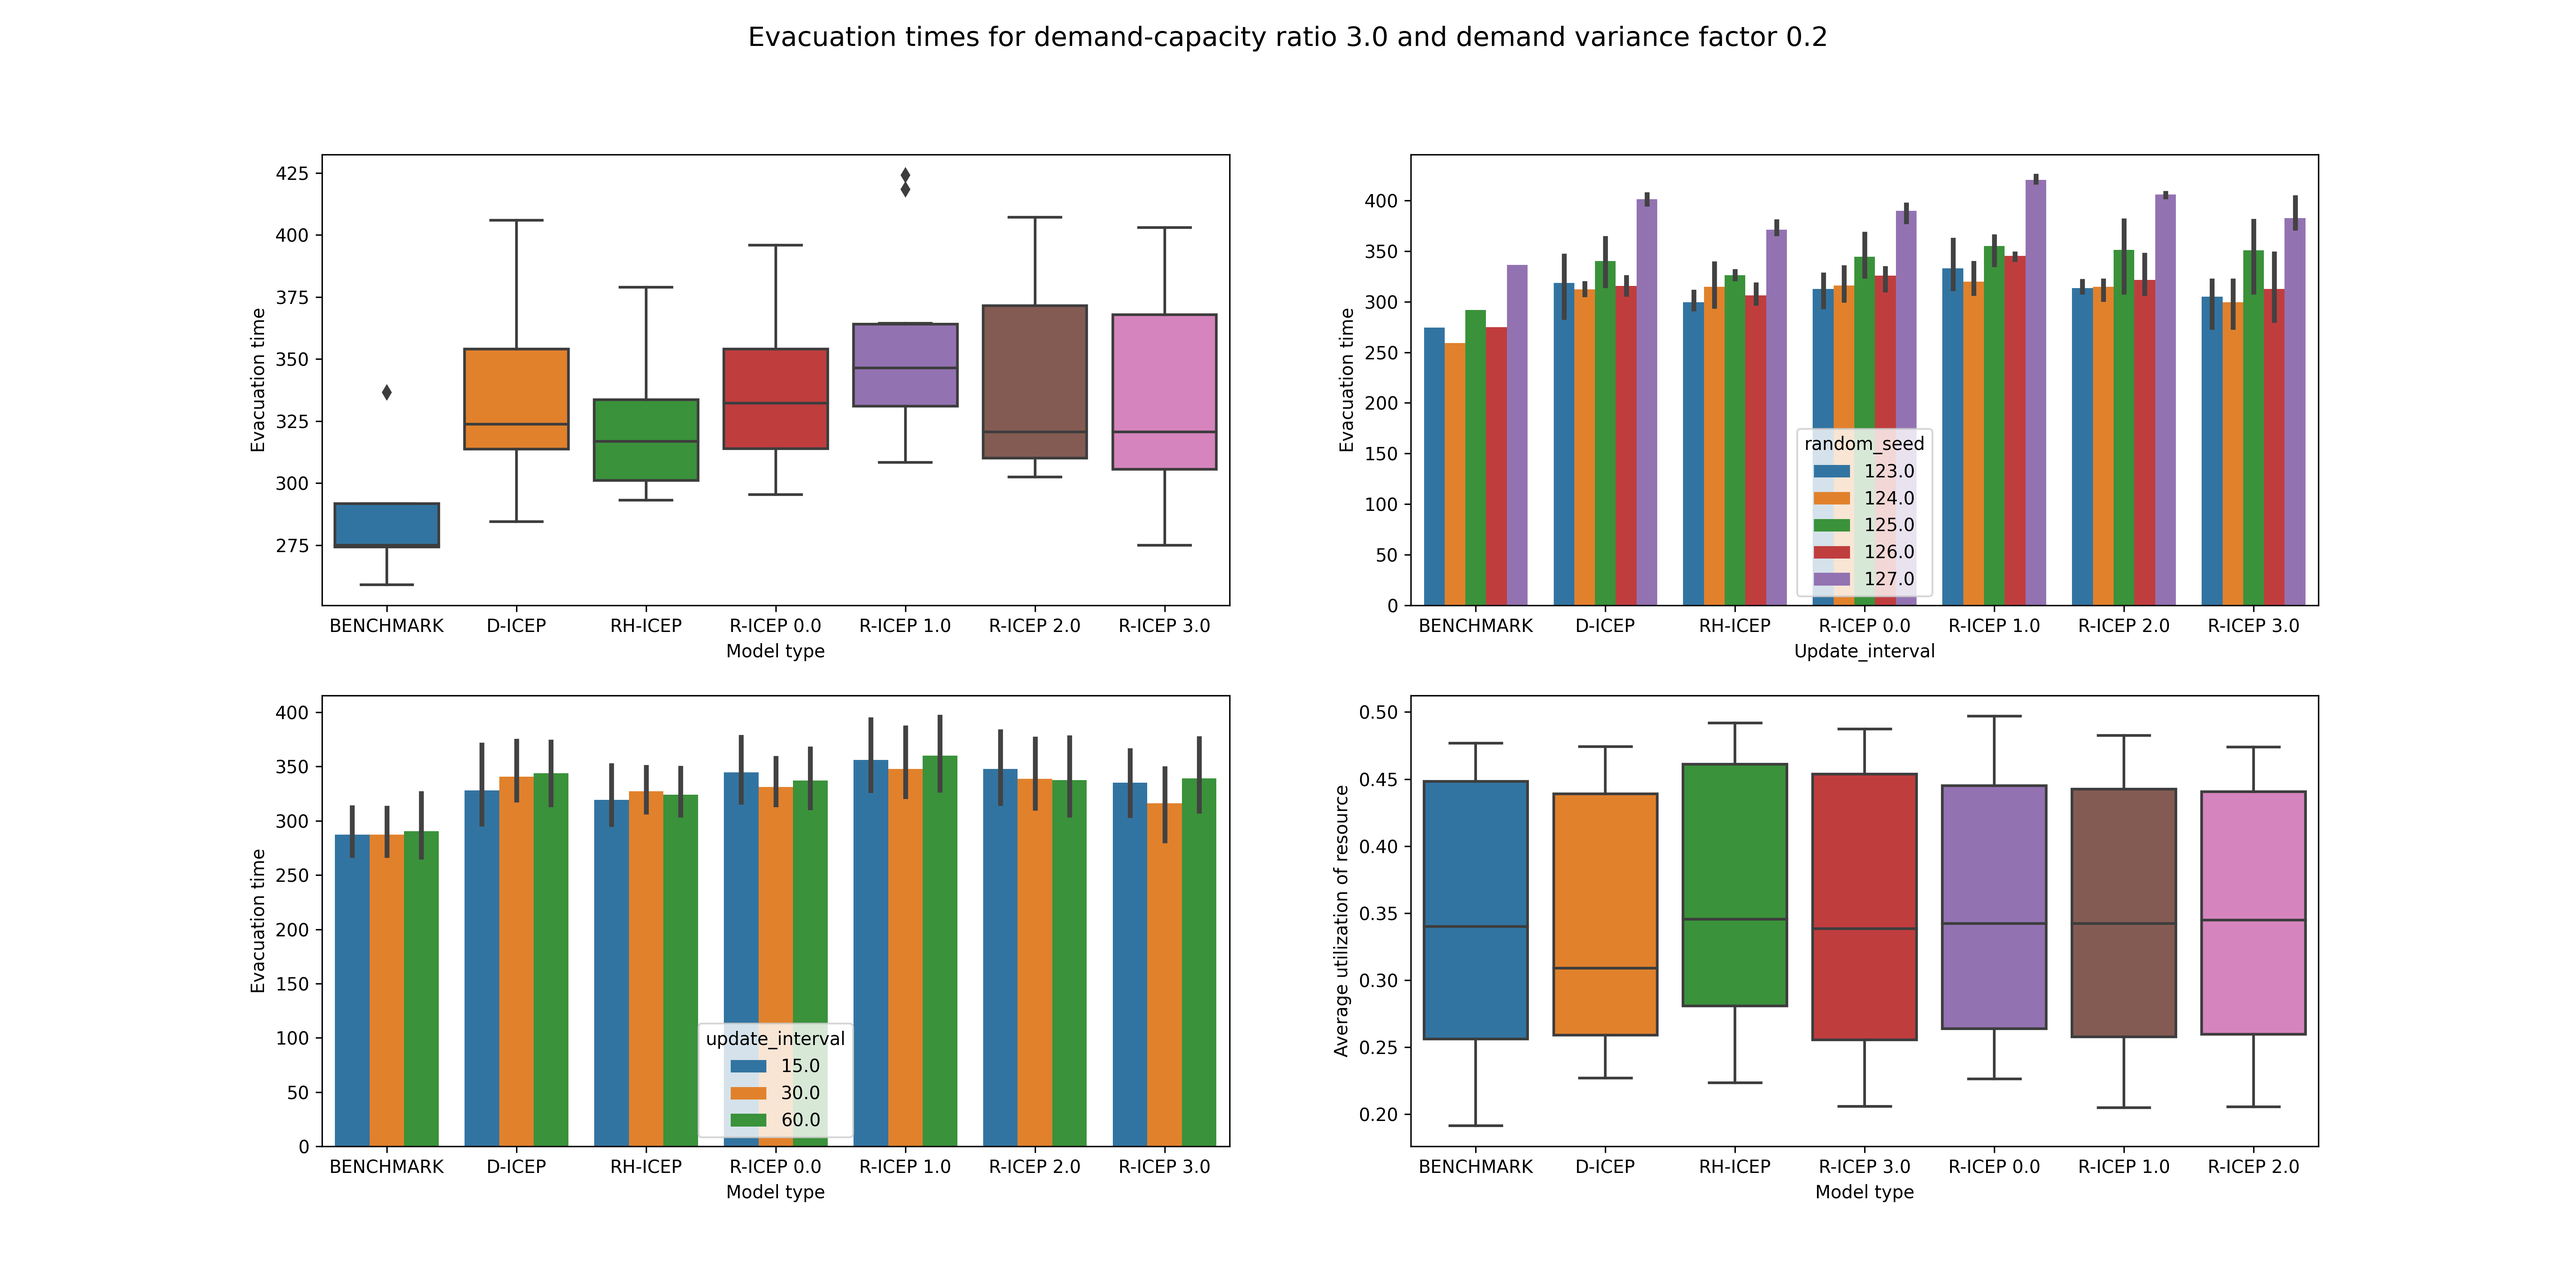
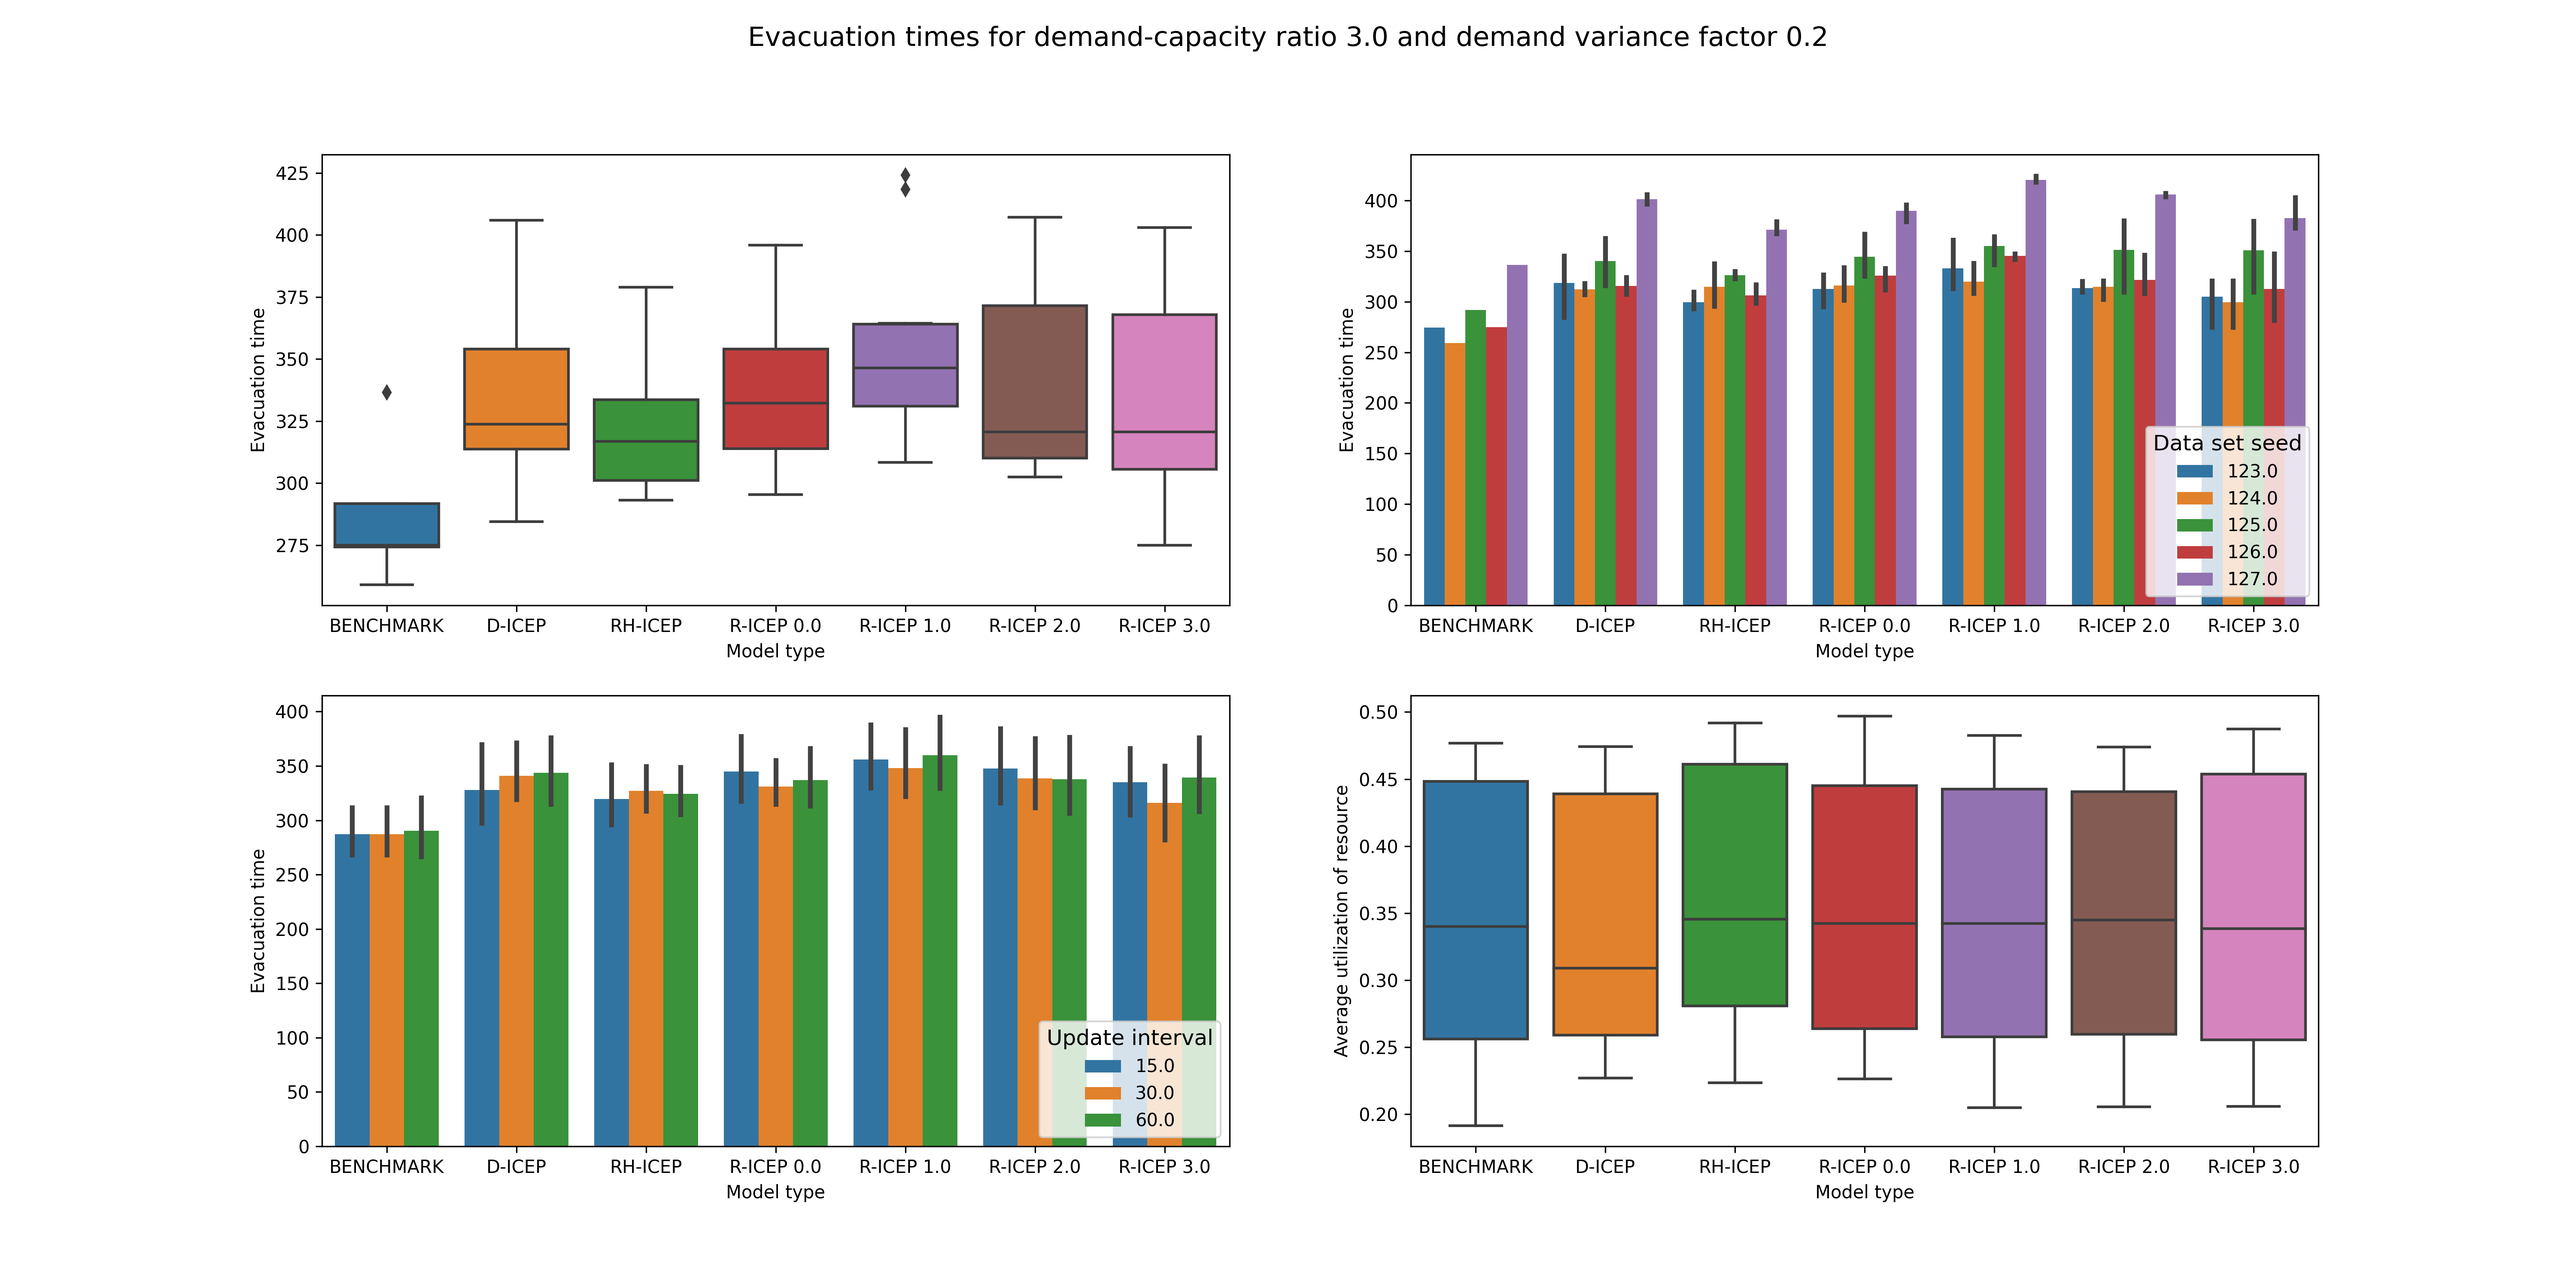
new summary plots

diff --git a/visualizations.py b/visualizations.py
@@ -276,7 +276,10 @@ def overview_plot(data, data_path):
                 if 'BENCHMARK' in df['model_type'].iloc[i]:
                     df['model_type'].iloc[i] = 'BENCHMARK'
 
-            # print(np.unique(df['model_type']))
+            # df['model_type'] = df['model_type'] + ' ' + df['update_interval'].astype(str)
+            # for i in range(len(df)):
+            #     if 'RH-ICEP' not in df['model_type'].iloc[i]:
+            #         df['model_type'].iloc[i] = df['model_type'].iloc[i][0:-5]
 
             # number of updates
             models = ["BENCHMARK", "D-ICEP", "RH-ICEP", "R-ICEP 0.0", "R-ICEP 1.0", "R-ICEP 2.0", "R-ICEP 3.0"]
@@ -292,7 +295,8 @@ def overview_plot(data, data_path):
             g1.set(ylabel='Evacuation time')  # remove the axis label
             # g0.set(xticklabels=['low', 'high'])
             # g1.set(xlim=(0.2,0.8))
-            g1.set(xlabel='Update_interval')
+            g1.set(xlabel='Model type')
+            g1.legend(loc="lower right", title="Data set seed", title_fontsize="large")
 
             # number of updates
             g2 = sns.barplot(x="model_type", y="evac_time_true", hue = "update_interval", data=df, ax=axs[1][0], order = models)
@@ -300,8 +304,9 @@ def overview_plot(data, data_path):
             g2.set(ylabel='Evacuation time')  # remove the axis label
             # g0.set(xticklabels=['low', 'high'])
             g2.set(xlabel='Model type')
+            g2.legend(loc="lower right", title="Update interval", title_fontsize="large")
 
-            g3 = sns.boxplot(x="model_type", y="avg_util_true", data=df, ax=axs[1][1])
+            g3 = sns.boxplot(x="model_type", y="avg_util_true", data=df, ax=axs[1][1], order = models)
             # g0.set(yticklabels=[])  # remove the tick labels
             g3.set(ylabel='Average utilization of resource')  # remove the axis label
             # g0.set(xticklabels=['low', 'high'])
@@ -315,6 +320,140 @@ def overview_plot(data, data_path):
                          fontweight=20)
             plt.savefig(os.path.join(data_path.split('/')[0], 'figures/overview_plot_' + str(variance_factor) + '_' + str(demand_capacity_ratio) + '.png'), dpi=300, transparent=False)
             plt.close()
+
+    fig, axs = plt.subplots(nrows = 2, ncols = 2, figsize = (20,10))
+
+    data['model_type'] = data['model'] + ' ' + data['gamma_setting'].astype(str)
+    for i in range(len(data)):
+        if 'nan' in data['model_type'].iloc[i]:
+            data['model_type'].iloc[i] = data['model_type'].iloc[i][0:-4]
+        if 'BENCHMARK' in data['model_type'].iloc[i]:
+            data['model_type'].iloc[i] = 'BENCHMARK'
+
+    # data['model_type'] = data['model_type'] + ' ' + data['update_interval'].astype(str)
+    # for i in range(len(data)):
+    #     if 'RH-ICEP' not in data['model_type'].iloc[i]:
+    #         data['model_type'].iloc[i] = data['model_type'].iloc[i][0:-5]
+
+    # number of updates
+    models = ["BENCHMARK", "D-ICEP", "RH-ICEP", "R-ICEP 0.0", "R-ICEP 1.0", "R-ICEP 2.0", "R-ICEP 3.0"]
+    g0 = sns.boxplot(x="model_type", y="evac_time_true", data=data, ax=axs[0][0], order = models)
+    # g0.set(yticklabels=[])  # remove the tick labels
+    g0.set(ylabel='Evacuation time')  # remove the axis label
+    # g0.set(xticklabels=['low', 'high'])
+    g0.set(xlabel='Model type')
+
+    # number of updates
+    g1 = sns.barplot(x="model_type", y="evac_time_true", hue = "variance_factor", data=data, ax=axs[0][1], order = models)
+    # g0.set(yticklabels=[])  # remove the tick labels
+    g1.set(ylabel='Evacuation time')  # remove the axis label
+    # g0.set(xticklabels=['low', 'high'])
+    # g1.set(xlim=(0.2,0.8))
+    g1.set(xlabel='Model type')
+    g1.legend(loc="lower right", title="Variance factor", title_fontsize="large")
+
+    # number of updates
+    g2 = sns.barplot(x="model_type", y="evac_time_true", hue = "demand_capacity_ratio", data=data, ax=axs[1][0], order = models)
+    # g0.set(yticklabels=[])  # remove the tick labels
+    g2.set(ylabel='Evacuation time')  # remove the axis label
+    # g0.set(xticklabels=['low', 'high'])
+    g2.set(xlabel='Model type')
+    g2.legend(loc="lower right", title="Demand Capacity Ratio", title_fontsize="large")
+
+    g3 = sns.boxplot(x="model_type", y="avg_util_true", data=data, ax=axs[1][1], order = models)
+    # g0.set(yticklabels=[])  # remove the tick labels
+    g3.set(ylabel='Average utilization of resource')  # remove the axis label
+    # g0.set(xticklabels=['low', 'high'])
+    # g3.set(xlim=(0,0.8))
+    g3.set(xlabel='Model type')
+
+    fig.set_facecolor("white")
+    fig.suptitle('Evacuation times for different model types',
+                 ha='center',
+                 fontsize=15,
+                 fontweight=20)
+    plt.savefig(os.path.join(data_path.split('/')[0], 'figures/overview_plot.png'), dpi=300, transparent=False)
+    plt.close()
+
+    fig, axs = plt.subplots(nrows = 1, ncols = 1, figsize = (10,5))
+
+    data['model_type'] = data['model'] + ' ' + data['gamma_setting'].astype(str)
+    for i in range(len(data)):
+        if 'nan' in data['model_type'].iloc[i]:
+            data['model_type'].iloc[i] = data['model_type'].iloc[i][0:-4]
+        if 'BENCHMARK' in data['model_type'].iloc[i]:
+            data['model_type'].iloc[i] = 'BENCHMARK'
+
+    # data['model_type'] = data['model_type'] + ' ' + data['update_interval'].astype(str)
+    # for i in range(len(data)):
+    #     if 'RH-ICEP' not in data['model_type'].iloc[i]:
+    #         data['model_type'].iloc[i] = data['model_type'].iloc[i][0:-5]
+
+    # number of updates
+    models = ["BENCHMARK", "D-ICEP", "RH-ICEP", "R-ICEP 0.0", "R-ICEP 1.0", "R-ICEP 2.0", "R-ICEP 3.0"]
+    g0 = sns.lineplot(x="model_type", y="evac_time_true", data=data, ax=axs)
+    # g0.set(yticklabels=[])  # remove the tick labels
+    g0.set(ylabel='Evacuation time')  # remove the axis label
+    # g0.set(xticklabels=['low', 'high'])
+    g0.set(xlabel='Model type')
+
+    fig.set_facecolor("white")
+    fig.suptitle('Evacuation times for different model types',
+                 ha='center',
+                 fontsize=15,
+                 fontweight=20)
+    plt.savefig(os.path.join(data_path.split('/')[0], 'figures/overview_plot_mean.png'), dpi=300, transparent=False)
+    plt.close()
+
+
+
+def comparison_plots_individual(df, data_path, seed, interval, demand_capacity_ratio, variance_factor):
+
+    data = df[(df['random_seed'] == seed) & (df['update_interval'] == interval) &
+              (df['demand_capacity_ratio'] == demand_capacity_ratio) &
+              (df['variance_factor'] == variance_factor)]
+
+    fig, axs = plt.subplots(nrows = 1, ncols = 2, figsize = (20,5))
+
+    data['model_type'] = data['model'] + ' ' + data['gamma_setting'].astype(str)
+    for i in range(len(data)):
+        if 'nan' in data['model_type'].iloc[i]:
+            data['model_type'].iloc[i] = data['model_type'].iloc[i][0:-4]
+        if 'BENCHMARK' in data['model_type'].iloc[i]:
+            data['model_type'].iloc[i] = 'BENCHMARK'
+
+    # data['model_type'] = data['model_type'] + ' ' + data['update_interval'].astype(str)
+    # for i in range(len(data)):
+    #     if 'RH-ICEP' not in data['model_type'].iloc[i]:
+    #         data['model_type'].iloc[i] = data['model_type'].iloc[i][0:-5]
+
+    # number of updates
+    models = ["BENCHMARK", "D-ICEP", "RH-ICEP", "R-ICEP 0.0", "R-ICEP 1.0", "R-ICEP 2.0", "R-ICEP 3.0"]
+    g0 = sns.barplot(x="model_type", y="evac_time_true", data=data, ax=axs[0])
+    # g0.set(yticklabels=[])  # remove the tick labels
+    g0.set(ylabel='Evacuation time')  # remove the axis label
+    # g0.set(xticklabels=['low', 'high'])
+    g0.set(xlabel='Model type')
+
+    g1 = sns.barplot(x="model_type", y="avg_util_true", data=data, ax=axs[1])
+    # g0.set(yticklabels=[])  # remove the tick labels
+    g1.set(ylabel='Average utilization of resource')  # remove the axis label
+    # g0.set(xticklabels=['low', 'high'])
+    # g3.set(xlim=(0,0.8))
+    g1.set(xlabel='Model type')
+
+    fig.set_facecolor("white")
+    fig.suptitle('Evacuation times for different model types for seed ' + str(seed) +
+                 ' update interval: ' + str(interval) +
+                 ' variance factor: ' + str(variance_factor) +
+                 ' demand-capacity-ratio: ' + str(demand_capacity_ratio),
+                 ha='center',
+                 fontsize=15,
+                 fontweight=20)
+    plt.savefig(os.path.join(data_path.split('/')[0], 'figures/perfomance_s_' + str(seed) + '_i_' +
+                str(interval) + '_v_' + str(variance_factor) + '_d_' + str(demand_capacity_ratio) +
+                '.png'), dpi=300, transparent=False)
+    plt.close()
 
 def individual_box_plots(df, data_path):
 
@@ -442,22 +581,16 @@ def main():
     ####  VISUALIZATIONS  ####
 
     # box plots
-    individual_box_plots(df, data_path)
+    # individual_box_plots(df, data_path)
 
     overview_plot(df, data_path)
 
     # for seed in [123, 124, 125, 126, 127]:
+    #     for interval in [15.0, 30.0, 60.0]:
+    #         for demand_capacity_ratio in [2.0, 3.0, 4.0]:
+    #             for variance_factor in [0.2, 0.4, 0.6]:
     #
-    #     comparison_plots_updates(df, data_path, seed, 2)
-
-        # comparison_plots_interval(df, data_path, seed, 2)
-        #
-        # comparison_plots_variance(df, data_path, seed, 2)
-        #
-        # comparison_plots_demand(df, data_path, seed, 2)
-
-    # line plots
-    # line_plots(df, data_path)
+    #                 comparison_plots_individual(df, data_path, seed, interval, demand_capacity_ratio, variance_factor)
 
 
 if __name__ == "__main__":
